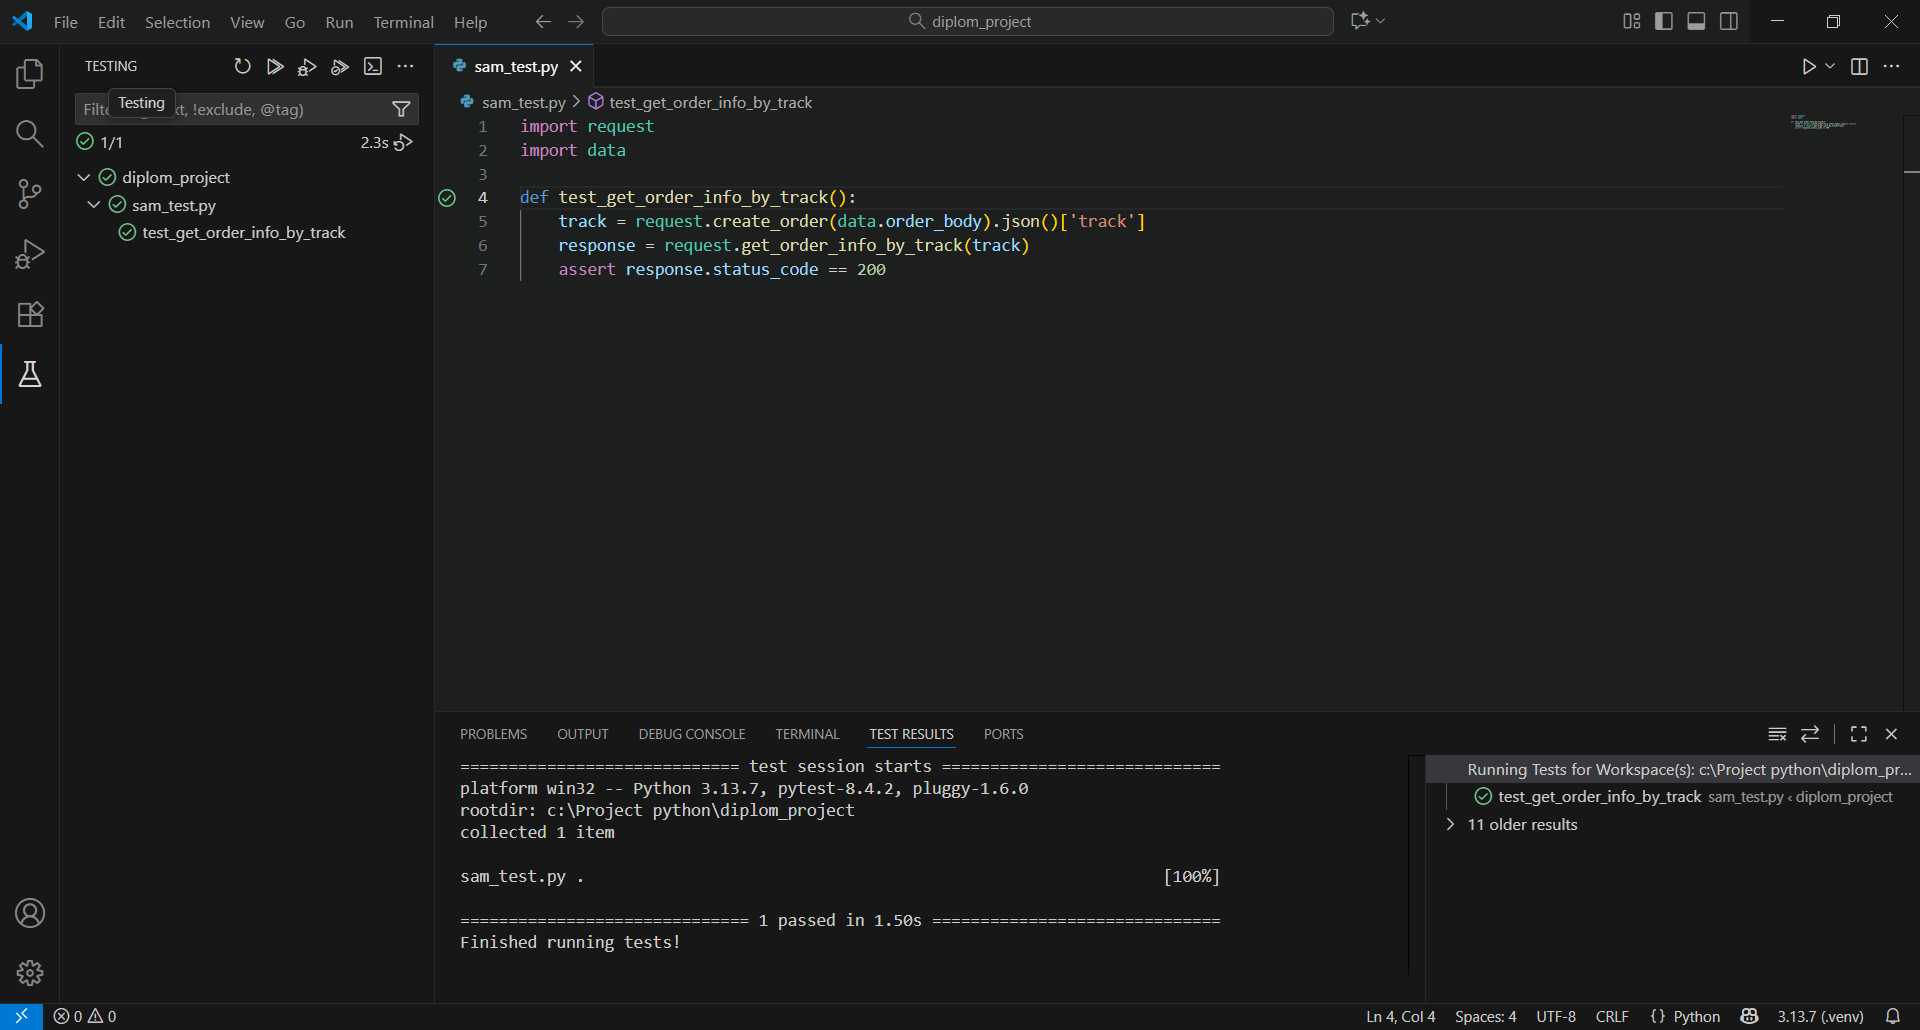
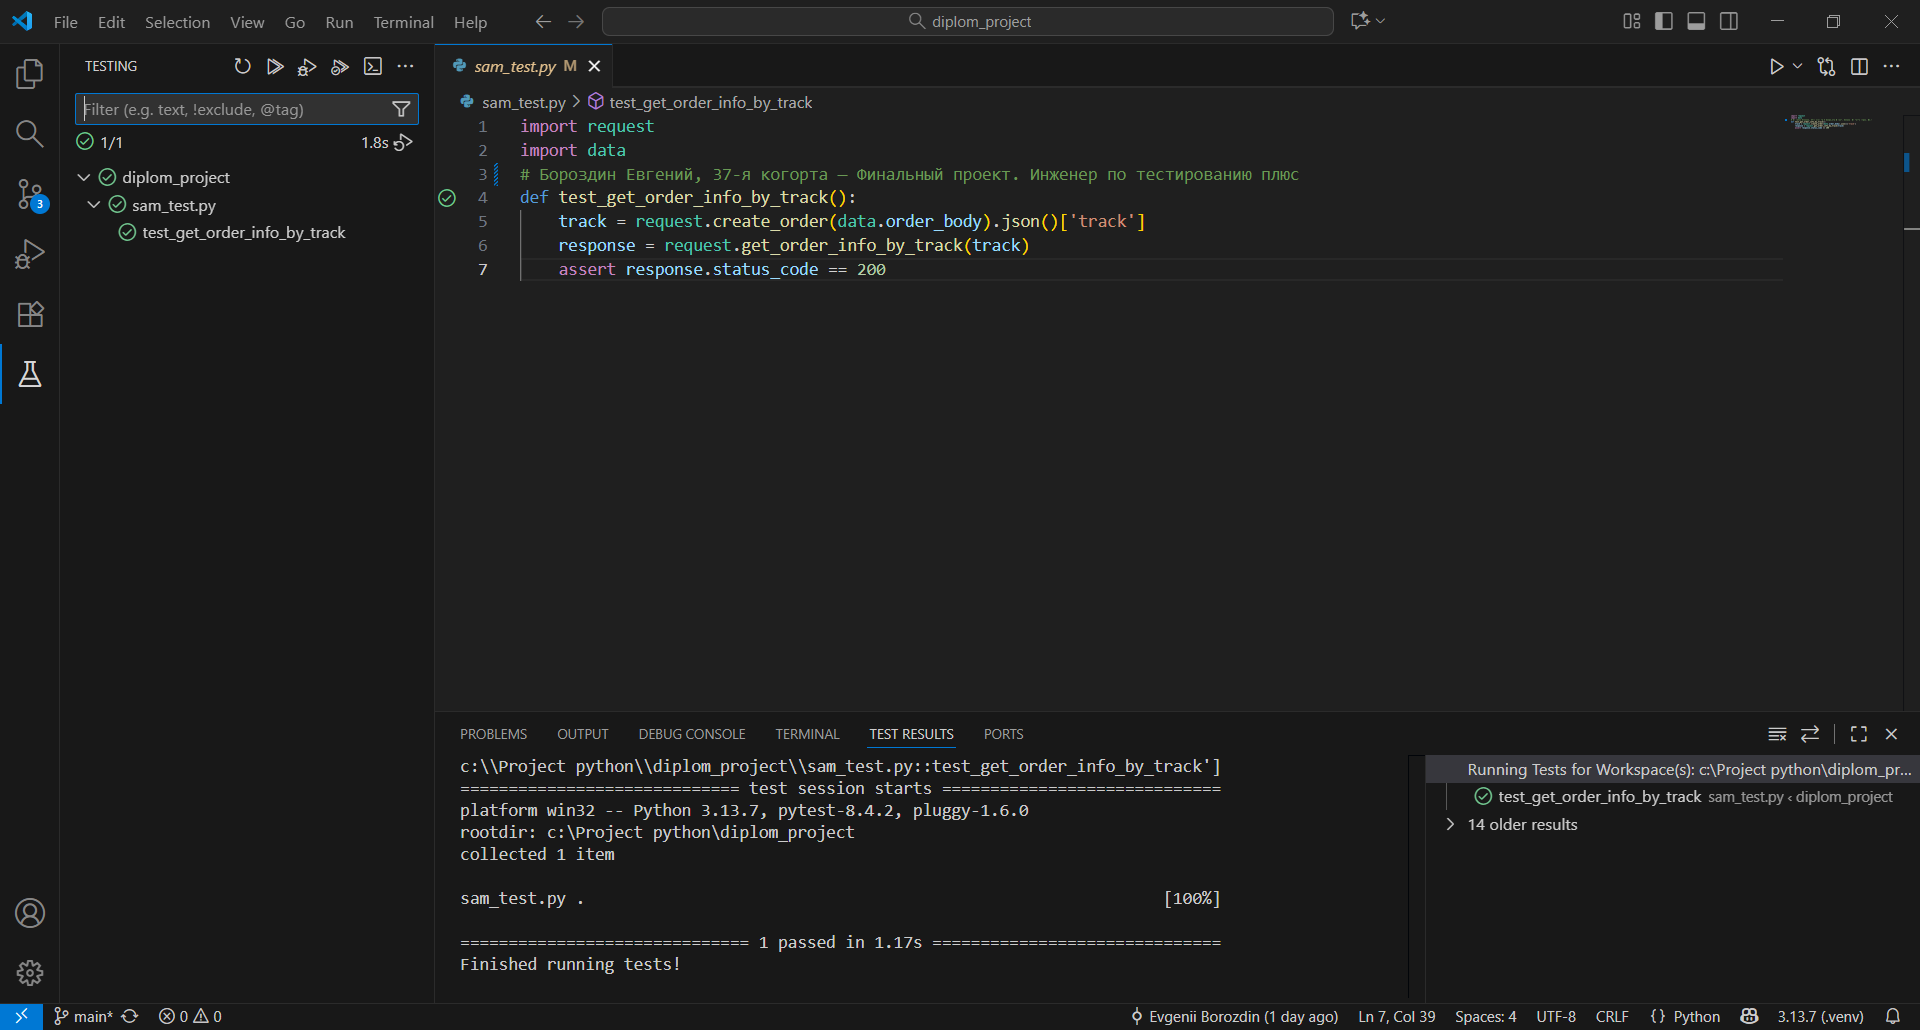
modified:   configuration.py 	modified:   sam_test.py 	modified:   sam_test.py - diplom_project - Visual Studio Code .png

diff --git a/sam_test.py b/sam_test.py
@@ -1,6 +1,6 @@
 import request
 import data
-
+# Бороздин Евгений, 37-я когорта — Финальный проект. Инженер по тестированию плюс
 def test_get_order_info_by_track():
     track = request.create_order(data.order_body).json()['track']
     response = request.get_order_info_by_track(track)

diff --git a/configuration.py b/configuration.py
@@ -1,3 +1,3 @@
-URL_SERVICE = "https://7b2ad2ea-3827-45ef-8d13-cc452771598f.serverhub.praktikum-services.ru"
+URL_SERVICE = "https://50a3b075-e80a-4c5e-995a-dfcfc35cc85d.serverhub.praktikum-services.ru"
 CREATE_ORDER = "/api/v1/orders"
 ORDER_INFORMATION = "/api/v1/orders/track?t="
